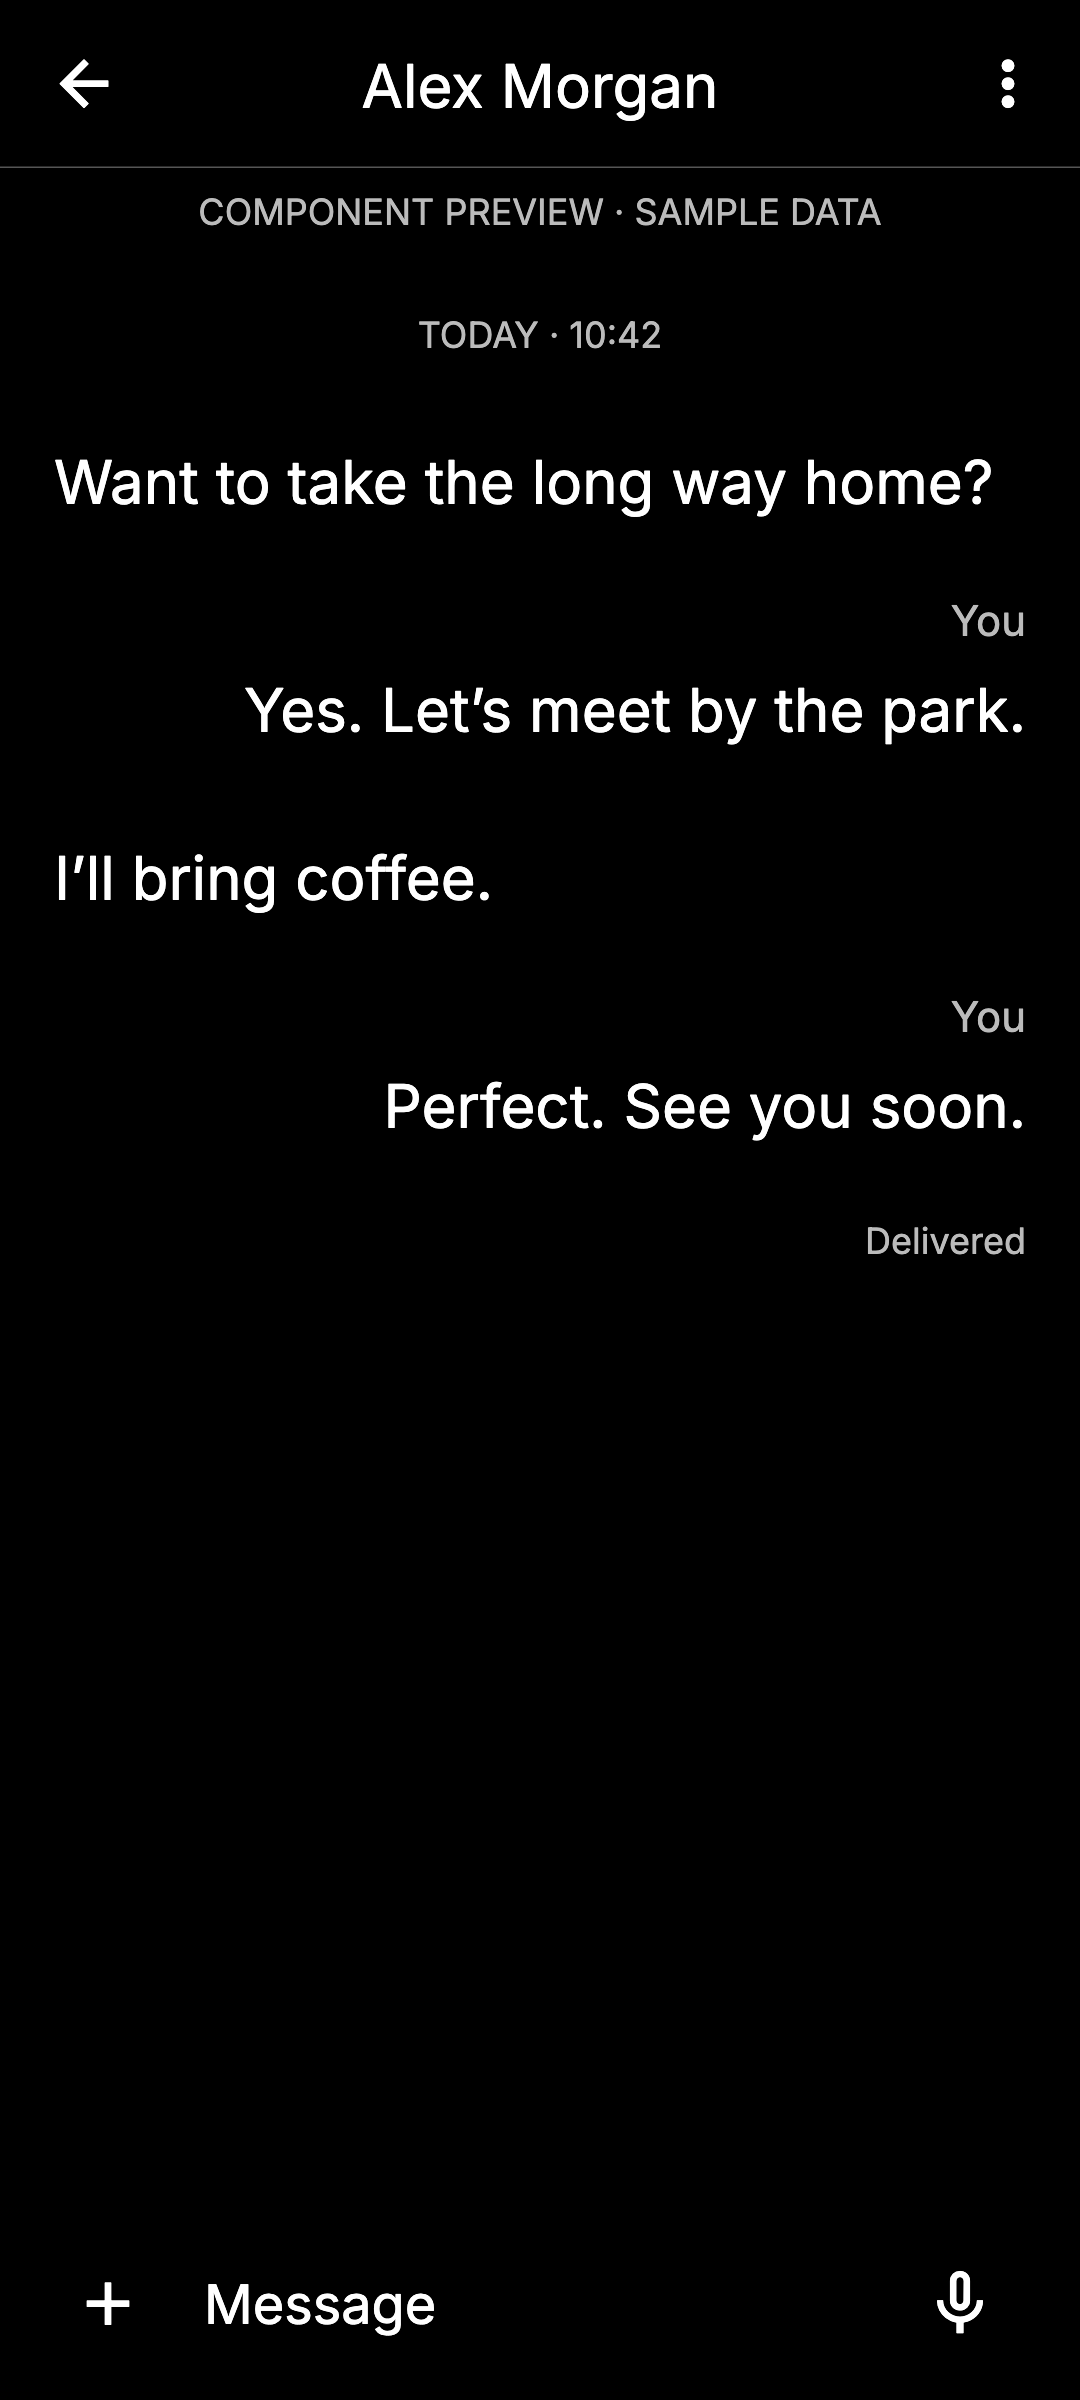
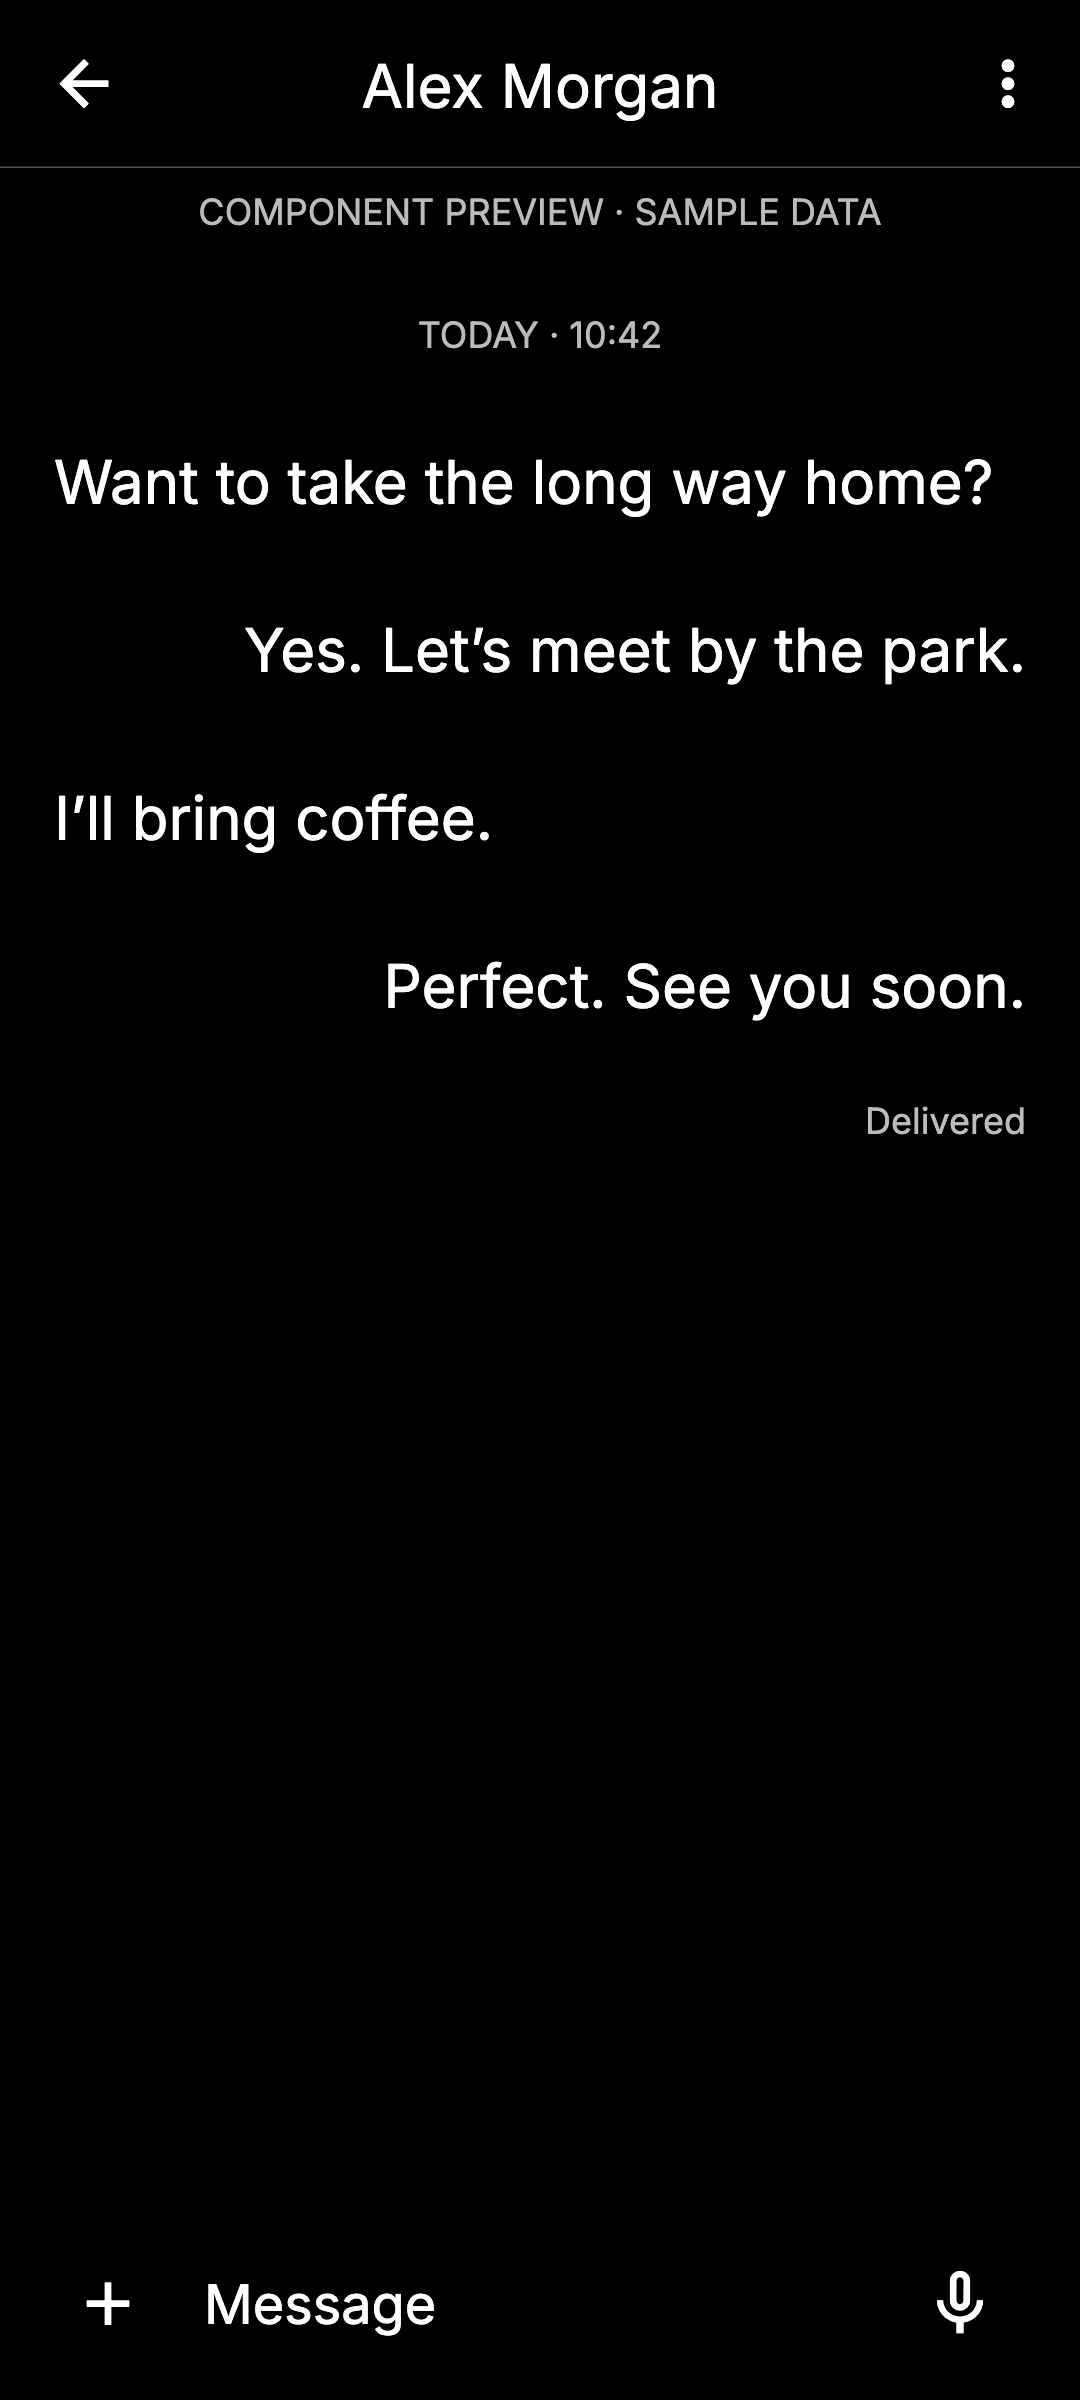
Show sender captions only in group conversations

diff --git a/tool/light_preview/test/demo_voice_test.dart b/tool/light_preview/test/demo_voice_test.dart
@@ -109,7 +109,8 @@ void main() {
         of: find.text('Voice note · 00:03'),
         matching: find.byType(LightMessageSurface));
     expect(tester.getRect(voiceSurface).right, closeTo(342, 0.01));
-    expect(tester.getRect(find.text('You').last).right, closeTo(342, 0.01));
+    expect(find.byType(LightMessageSender), findsNothing);
+    expect(find.text('You'), findsNothing);
     await tester.tap(find.byTooltip('Play voice note'));
     await tester.pumpAndSettle();
     expect(capture.plays, 2);
@@ -188,7 +189,7 @@ void main() {
   for (final thread in ['Alex Morgan', 'Saturday walk']) {
     for (final scale in [1.0, 1.6]) {
       testWidgets(
-          '$thread newly sent wrapped text and You caption align right at ${scale}x',
+          '$thread wrapped sent text aligns right with captions only for groups at ${scale}x',
           (tester) async {
         tester.view.physicalSize = const Size(360, 800);
         tester.view.devicePixelRatio = 1;
@@ -199,6 +200,10 @@ void main() {
         await tester.pumpWidget(LightDemoApp(voiceCapture: FakeVoiceCapture()));
         await tester.tap(find.text(thread));
         await tester.pumpAndSettle();
+        if (thread == 'Alex Morgan') {
+          expect(find.byType(LightMessageSender), findsNothing);
+          expect(find.text('You'), findsNothing);
+        }
         final incoming = thread == 'Alex Morgan'
             ? 'Meet you at the trailhead.'
             : 'I’ll bring the cups.';
@@ -222,9 +227,15 @@ void main() {
                 .localToGlobal(Offset(lines.last.right, lines.last.bottom))
                 .dx,
             closeTo(342, 0.01));
-        expect(tester.getRect(find.text('You').last).right, closeTo(342, 0.01));
-        expect(tester.getBottomLeft(find.text('You').last).dy,
-            lessThan(tester.getTopLeft(find.text(message)).dy));
+        if (thread == 'Saturday walk') {
+          expect(
+              tester.getRect(find.text('You').last).right, closeTo(342, 0.01));
+          expect(tester.getBottomLeft(find.text('You').last).dy,
+              lessThan(tester.getTopLeft(find.text(message)).dy));
+        } else {
+          expect(find.byType(LightMessageSender), findsNothing);
+          expect(find.text('You'), findsNothing);
+        }
         expect(tester.takeException(), isNull);
       });
     }

diff --git a/tool/light_preview/test/preview_app.dart b/tool/light_preview/test/preview_app.dart
@@ -2,7 +2,6 @@ import 'package:flutter/material.dart';
 
 import '../../../lib/app/components/light/light_conversation_row.dart';
 import '../../../lib/app/components/light/light_message_surface.dart';
-import '../../../lib/app/components/light/light_message_sender.dart';
 import '../../../lib/app/components/light/light_voice_note_controls.dart';
 import '../../../lib/app/components/light/light_theme.dart';
 
@@ -152,8 +151,6 @@ class _FixtureConversation extends StatelessWidget {
               crossAxisAlignment:
                   fromMe ? CrossAxisAlignment.end : CrossAxisAlignment.start,
               children: [
-                if (fromMe)
-                  const LightMessageSender(name: 'You', isFromMe: true),
                 LightMessageSurface(
                   isFromMe: fromMe,
                   constraints: const BoxConstraints(maxWidth: 324),

diff --git a/tool/light_preview/demo_app.dart b/tool/light_preview/demo_app.dart
@@ -543,8 +543,7 @@ class _DemoHomeState extends State<_DemoHome> {
                                                 ? CrossAxisAlignment.end
                                                 : CrossAxisAlignment.start,
                                             children: [
-                                              if (thread.isGroup ||
-                                                  message.fromMe)
+                                              if (thread.isGroup)
                                                 LightMessageSender(
                                                     isFromMe: message.fromMe,
                                                     name: message.fromMe

diff --git a/lib/app/layouts/conversation_view/widgets/message/message_holder.dart b/lib/app/layouts/conversation_view/widgets/message/message_holder.dart
@@ -304,7 +304,7 @@ class _MessageHolderState extends CustomState<MessageHolder, void, MessageWidget
                           // show sender, if needed
                           if (!message.isGroupEvent
                               && (isLight
-                                  ? chat.isGroup || message.isFromMe!
+                                  ? chat.isGroup
                                   : chat.isGroup && !message.isFromMe! && showSender)
                               && e.part == (messageParts.firstWhereOrNull((e) => !e.isUnsent)?.part))
                             Padding(

diff --git a/docs/LIGHT_BUILD.md b/docs/LIGHT_BUILD.md
@@ -31,7 +31,7 @@ New Android installations default to **Light**. A saved App Skin preference is r
 
 The Light header's overflow menu retains call/email and chat actions. FaceTime actions remain in conversation details. Long-press a conversation to select it; the bottom actions support read/unread, archive, pin, mute, and delete. Recently deleted conversations use the upstream recovery dialog.
 
-Messages are plain text: incoming messages align left and sent messages align right, with smaller sender names above group messages and “You” above outgoing messages. With an empty composer, tap the microphone to record a voice note. STOP opens playback review; DISCARD removes it and SEND uses the existing audio-message queue. Microphone access is requested when you start recording.
+Messages are plain text: incoming messages align left and sent messages align right. Sender captions appear only in group conversations, with names above incoming messages and “You” above outgoing messages. With an empty composer, tap the microphone to record a voice note. STOP opens playback review; DISCARD removes it and SEND uses the existing audio-message queue. Microphone access is requested when you start recording.
 
 The [interactive browser demo](../tool/light_preview/README.md) supports sample conversations and local microphone recordings without an account. Its recordings stay in memory and disappear on reload; they are never sent to the messaging service.
 

diff --git a/docs/LIGHT_DESIGN.md b/docs/LIGHT_DESIGN.md
@@ -51,7 +51,7 @@ On the reference preview, Copy is approximately 20.7 sp, Fine 17.2 sp, and Detai
 
 These are visual references, not a reason to remove OpenBubbles functionality. Conversation selection, search, compose, unread indicators, message sending, attachments, accessibility, and system back navigation must remain functional. Sender/recipient distinctions should remain understandable without relying on color.
 
-The transcript uses plain text without borders or outgoing fills. Incoming messages align left; sent messages and their captions align right. Group messages show a smaller sender caption above every message; outgoing messages use “You.” The empty composer exposes a microphone, switching to SEND for a text or attachment draft. Voice notes have explicit stop/cancel controls and a playback review before sending.
+The transcript uses plain text without borders or outgoing fills. Incoming messages align left; sent messages align right. One-to-one conversations have no sender captions. Group messages show a smaller sender caption above every message, with “You” above outgoing messages. The empty composer exposes a microphone, switching to SEND for a text or attachment draft. Voice notes have explicit stop/cancel controls and a playback review before sending.
 
 ## Fonts, assets, and platform boundary
 
